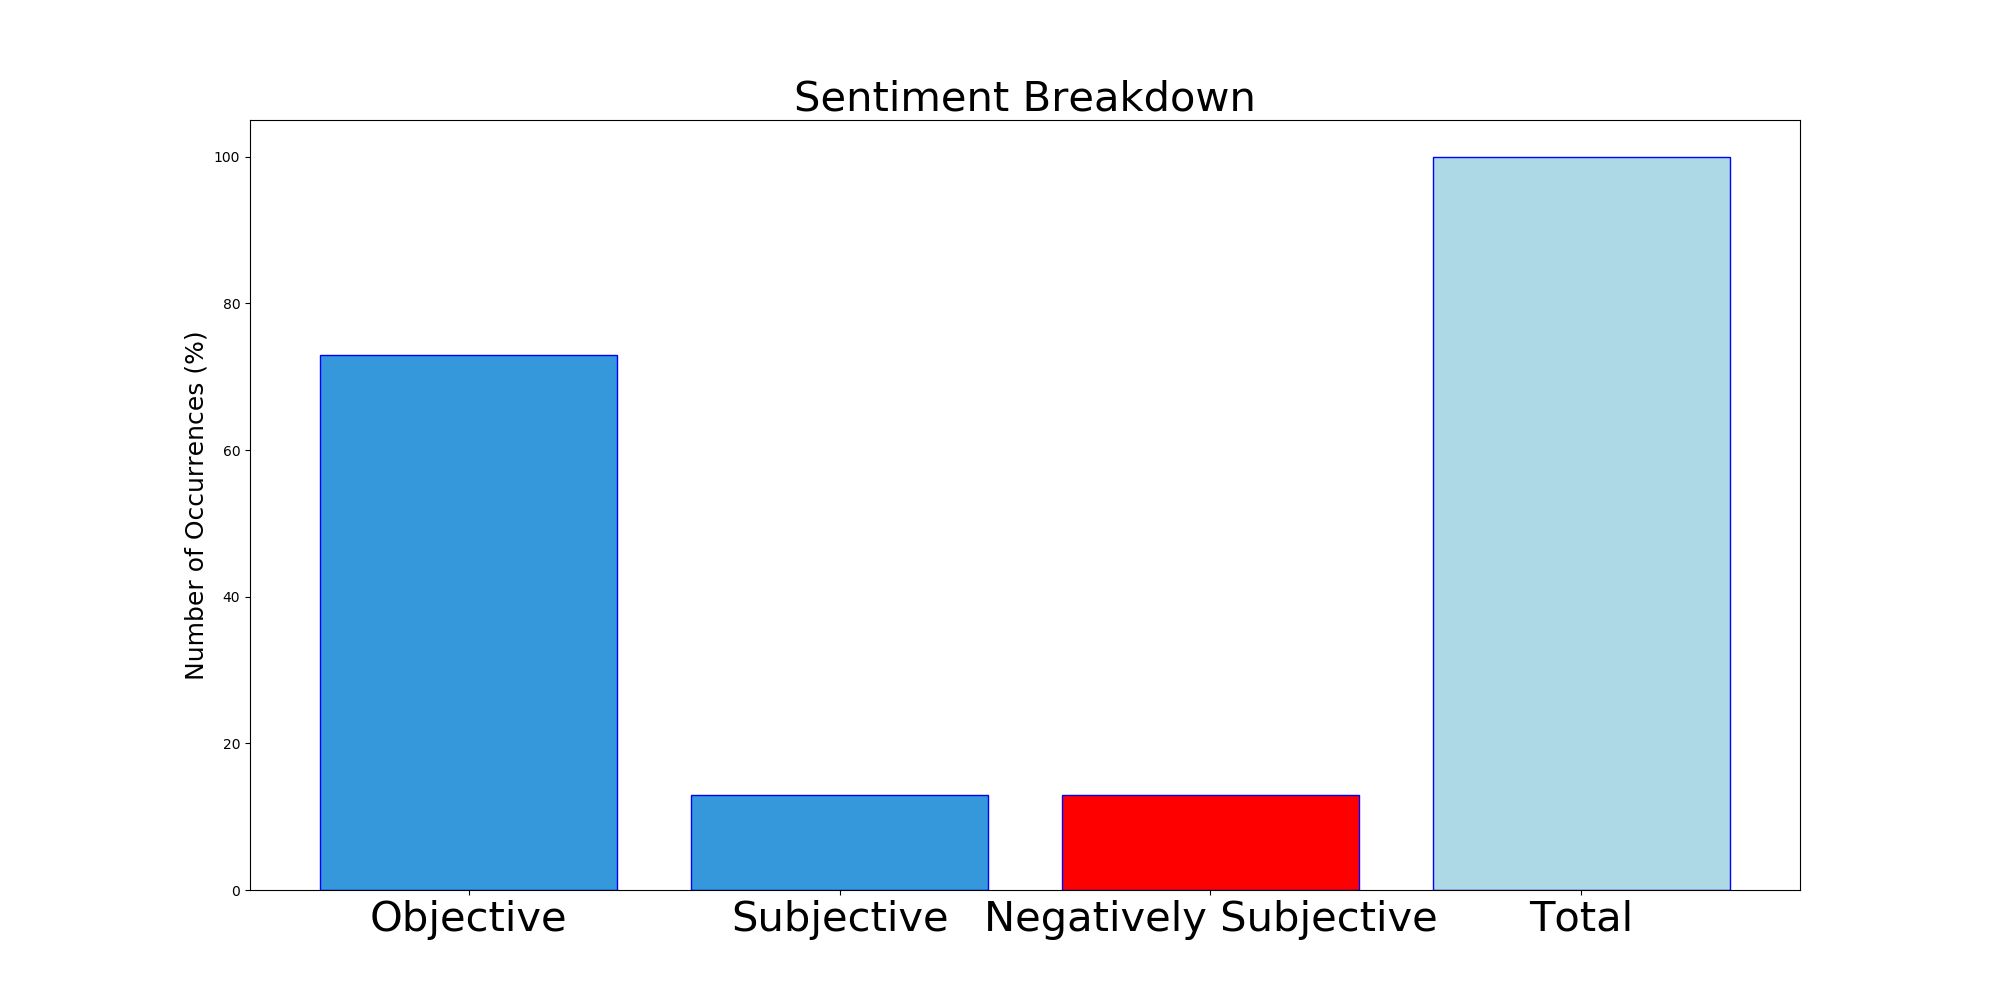
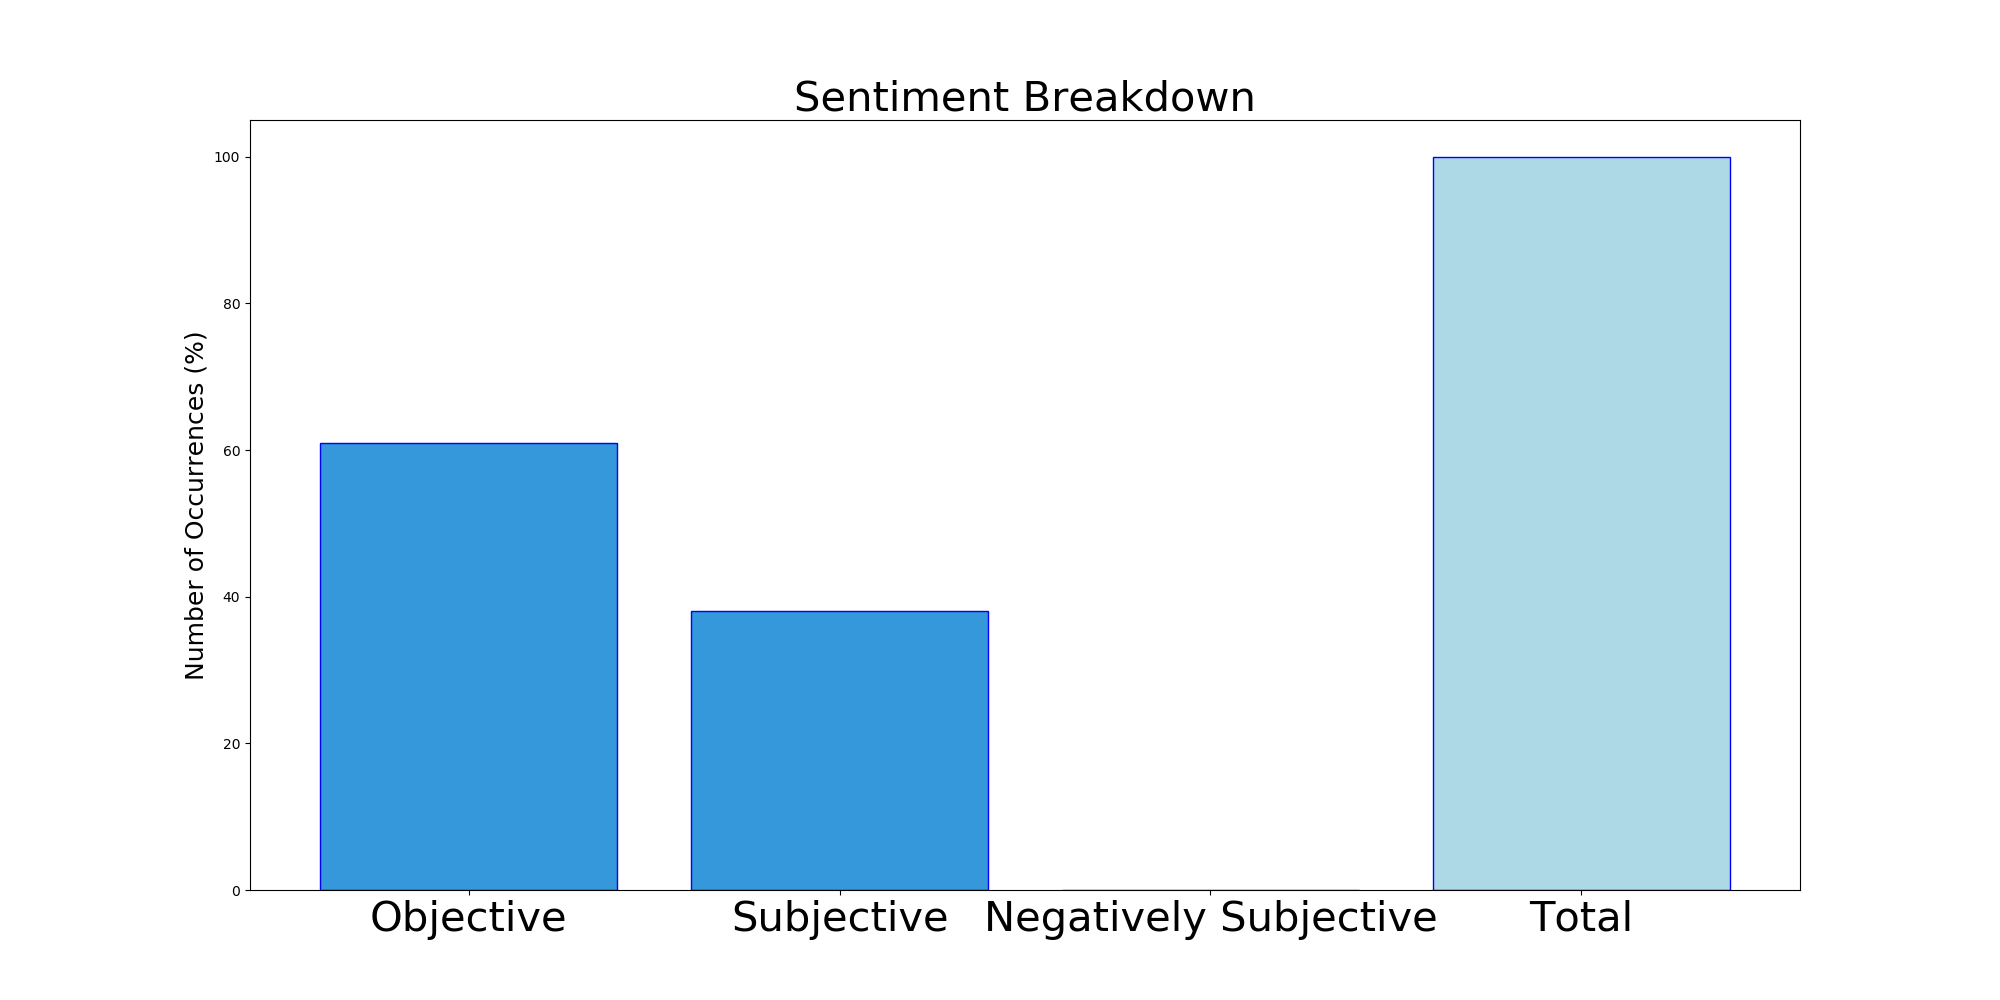
Updating with latest report

Changed region(s): [[0.341, 0.589, 0.496, 0.806], [0.527, 0.775, 0.682, 0.899], [0.155, 0.341, 0.31, 0.465]]

diff --git a/README.md b/README.md
@@ -15,11 +15,11 @@
 
 |                **Sample-Tweets**        |
 | :-------------: |
-| RT @reIagz: Tap the like button it’s so cool #WearAMask https://t.co/Qex4cprJff |
 | RT @Twitter: The only thing we want going viral is this Tweet#WearAMask |
-| RT @louiestruggles: like this for a surprise and do what it says if you want to see louis tomlinson and all your other faves live next year… |
+| RT @NJGov: kick. covid. butt. #WearAMask https://t.co/7U4w3k68s2 |
+| RT @Twitter: The only thing we want going viral is this Tweet#WearAMask |
 
-The most popular user is: **WeisongJi**
+The most popular user is: **DMenz1206**
 <div class="alert alert-block alert-danger"> RT @Twitter: The only thing we want going viral is this Tweet
 
 #WearAMask</div>
@@ -30,9 +30,9 @@ The most popular user is: **WeisongJi**
 | #1 Most tweeted to  | **Twitter** |
 | #2 Most tweeted to  | **marcusy_** |
 | #3 Most tweeted to  | **reIagz** |
-| NewProfiles (less than 10 days) | 0.97%  |
-| Tweeters with < 10 followers  | 3.77%|
-| Tweeters with > 1000000 followers  | 0.01%  |
+| NewProfiles (less than 10 days) | 0.88%  |
+| Tweeters with < 10 followers  | 3.7%|
+| Tweeters with > 1000000 followers  | 0.04%  |
 
 
 
@@ -51,16 +51,16 @@ The most popular user is: **WeisongJi**
 ## Twitter Bio Analysis![image](BIO.png)
 ### SENTIMENT ANALYSIS
 ![image](sentiment.png)
-VIEWS WERE : **SUBJECTIVE**  (13.33%) & **NEGATIVELY-SUBJECTIVE** (13.33%) **OBJECTIVE** (73.33%)
+VIEWS WERE : **SUBJECTIVE**  (38.46%) & **NEGATIVELY-SUBJECTIVE** (0.0%) **OBJECTIVE** (61.54%)
 
 ### TWEET SAMPLE 
 | Random value picked from array |
 | ------------- |
-|RT @Twitter: The only thing we want going viral is this Tweet#WearAMask |
+|RT @kkoobap: click the heart button and see what happens #WearAMask https://t.co/v3bzCL34s3 |
 
 ### MOST RETWEETED 
 
-| The most retweeted user is: **WeisongJi**  |
+| The most retweeted user is: **DMenz1206**  |
 | ------------- |
 | RT @Twitter: The only thing we want going viral is this Tweet#WearAMask |
 
